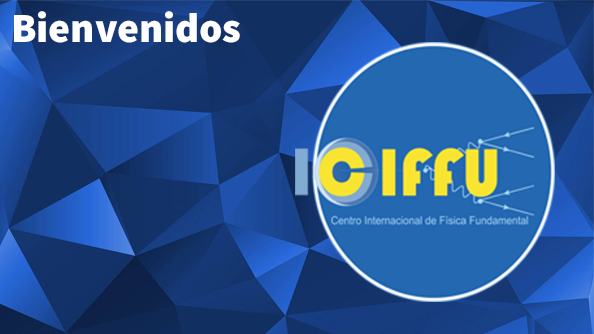
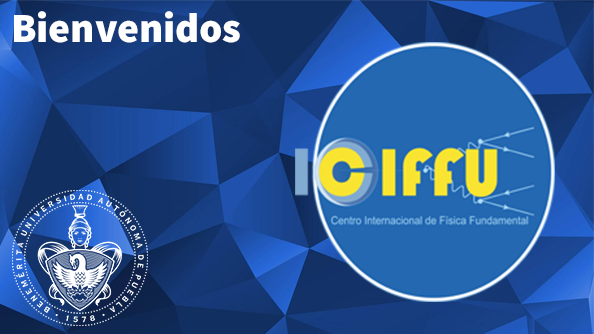
Revison CMS

Changed region(s): [[0.0, 0.5689, 0.2424, 0.988]]

diff --git a/css/app.css b/css/app.css
@@ -863,6 +863,14 @@ h1.titulo-presentacion, h2.titulo-presentacion, h3.titulo-presentacion, h4.titul
 
 table{width:100%;}
 td{padding:24px; background:#eee;}
+
+.mini-mapa{
+	display: block;
+	margin-left: auto;
+	margin-right: auto;
+	margin-top: 10px;
+	margin-bottom: 10px;
+}
 /*
 Azul celeste opaco: #3190c8
 Azul celeste opaco degradado: #39a7e7;

diff --git a/index.php b/index.php
@@ -37,17 +37,9 @@
 
             	<a href="#" >Programa de visitantes</a>
             </li>
-        	   <li>
-
-            	<a href="#">Talleres</a>
-            </li>
             <li>
 
-            	<a href="la-fisica-de-altas-energias-en-la-buap.php">Actividades de Investigación</a>
-            </li>
-            <li>
-
-            	<a href="#" >Comunicados</a>
+            	<a href="comunicados.php" >Comunicados</a>
             </li>
             <li >
 
@@ -66,28 +58,32 @@
                <button class="orbit-next boton-slider"><span class="show-for-sr">Noticia siguiente</span>&#9654;&#xFE0E;</button>
 
                <li class="is-active orbit-slide">
-                   <img class="orbit-image" src="assets/slider/sliderinicio.jpg" alt="fce-buap">
+                   <img class="orbit-image" src="assets/img/slider-presentacion.png" alt="fce-buap">
+
+               </li>
+               <li class="is-active orbit-slide">
+                   <img class="orbit-image" src="assets/slider/logoCMS.jpg" alt="fce-buap">
 
                </li>
                <li class="orbit-slide">
-                   <img class="orbit-image" src="assets/slider/Logo QuantumUniverse.jpg" alt="alumnos fce">
+                   <img class="orbit-image" src="assets/img/fotosEventoQuantum/1.jpg" alt="alumnos fce">
 
                </li>
                <li class="orbit-slide">
-                   <img class="orbit-image" src="assets/img/fb3.jpg" alt="alumnos fce">
-                   <figcaption class="orbit-caption">Próximamente The Quantum Universe en la BUAP</figcaption>
+                   <img class="orbit-image" src="assets/img/fotosEventoQuantum/2.jpg" alt="alumnos fce">
+
                </li>
                <li class="orbit-slide">
-                   <img class="orbit-image" src="assets/slider/sliderQuantum.jpg" alto="Quantum Universe BUAP">
+                   <img class="orbit-image" src="assets/img/fotosEventoQuantum/3.jpg" alto="Quantum Universe BUAP">
 
                </li>
 
                <li class="orbit-slide">
-                   <img class="orbit-image" src="assets/img/sl3.jpg" alt="alumnos fce">
-                   <figcaption class="orbit-caption">Conferencias</figcaption>
+                   <img class="orbit-image" src="assets/img/fotosEventoQuantum/4.jpg" alt="alumnos fce">
+                   <figcaption class="orbit-caption">Próximamente "CMS Day"</figcaption>
                </li>
                <li class="orbit-slide">
-                   <img class="orbit-image" src="assets/img/sl4.jpg" alt="alumnos fce">
+                   <img class="orbit-image" src="assets/img/fotosEventoQuantum/5.jpg" alt="alumnos fce">
 
                </li>
            </ul>
@@ -98,6 +94,7 @@
                <button data-slide="3"><span class="show-for-sr">Cuarto slide</span></button>
                <button data-slide="4"><span class="show-for-sr">Quinto slide</span></button>
                <button data-slide="5"><span class="show-for-sr">Sexto slide</span></button>
+               <button data-slide="6"><span class="show-for-sr">Septimo slide</span></button>
            </nav>
        </div>
     </div>
@@ -113,12 +110,12 @@
         <button class="orbit-next  boton-slider" aria-label="next"><span class="show-for-sr">Slide previo</span>&#9654;</button>
         <li class="is-active orbit-slide">
           <div class="docs-example-orbit-slide text-justify" >
-            <p>El CIFFU es un centro de investigación semi-virtual, especializado en Física Fundamental, con un enfoque multidisciplinario, donde confluyen esfuerzos coordinados para realizar investigación de frontera, formación de recursos humanos de alto nivel y la difusión de la ciencia, que buscará incidir en el sistema educativo nacional. Uno de sus objetivos es lograr un reconocimiento global y proyectar a la BUAP como una institución líder de México y Latinoamérica en el campo de la Física Fundamental, para beneficio de la comunidad universitaria y de la misma sociedad.</p>
+            <p>El CIFFU es un centro de investigación semi-virtual adscrito a la BUAP especializado en Física Fundamental, para fomentar la investigación de frontera y formación de recursos humanos de alto nivel, con un enfoque multidisciplinario y una alta componente de colaboraciones nacionales e internacionales. Una de sus metas es proyectar a la BUAP como una institución líder de México y Latinoamérica en el campo de la Física Fundamental. El CIFFU se propone también incidir en la sociedad, mediante la difusión científica y el analisis de los planes de enseñanza de las ciencias en el sistema educativo nacional.</p>
           </div>
         </li>
         <li class="orbit-slide">
-          <div class="docs-example-orbit-slide" >
-            <p>Las áreas de investigación que se desarrollan en el CIFFU incluyen la física de partículas elementales, tanto la búsqueda de señales en colisionadores como su conexión con la Astrofísica, Cosmología y los aspectos básicos de la Teoría Cuántica de Campos. En particular se propone estudiar temas de la física del sector de Higgs, el quark top, la búsqueda de materia oscura, rayos cósmicos y fundamentos de la Teoría Cuántica.</p>
+          <div class="docs-example-orbit-slide text-justify" >
+            <p>Las áreas de investigación que se desarrollan en el CIFFU incluyen la física de partículas elementales, tanto la búsqueda de señales en colisionadores como su conexión con la Astrofísica, Cosmología y Teoría Cuántica de Campos. En particular se propone estudiar temas de la física del sector de Higgs, el quark top, la materia oscura, rayos cósmicos, fundamentos y aplicaciones de la Teoría Cuántica. </p>
           </div>
         </li>
 
@@ -131,31 +128,51 @@
       <div class="widget" >
         <h4 class="titulo-widget">Artículos recientes del CIFFU</h4>
 
-<script src="https://ajax.googleapis.com/ajax/libs/jquery/2.1.1/jquery.min.js"></script>
-
-<div class="table-responsive">
-<ul class="lista-comunicados">
-  <li>
-    <a href="la-fisica-de-altas-energias-en-la-buap.php">La Física de Altas Energías en la BUAP</a>
-
-  </li>
-
-</ul>
-</div>
-
-<script>
-var $el = $(".table-responsive");
-function anim() {
-  var st = $el.scrollTop();
-  var sb = $el.prop("scrollHeight")-$el.innerHeight();
-  $el.animate({scrollTop: st<sb/2 ? sb : 0}, 12000, anim);
-}
-function stop(){
-  $el.stop();
-}
-anim();
-$el.hover(stop, anim);
-</script>
+        <!-- start sw-rss-feed code -->
+        <script type="text/javascript">
+        <!--
+        rssfeed_url = new Array();
+        rssfeed_url[0]="https://inspirehep.net/rss?ln=es&p=FIND+CIFFU";
+        rssfeed_frame_width="370";
+        rssfeed_frame_height="260";
+        rssfeed_scroll="on";
+        rssfeed_scroll_step="6";
+        rssfeed_scroll_bar="off";
+        rssfeed_target="_blank";
+        rssfeed_font_size="12";
+        rssfeed_font_face="";
+        rssfeed_border="on";
+        rssfeed_css_url="";
+        rssfeed_title="on";
+        rssfeed_title_name="";
+        rssfeed_title_bgcolor="#3366ff";
+        rssfeed_title_color="#fff";
+        rssfeed_title_bgimage="";
+        rssfeed_footer="off";
+        rssfeed_footer_name="rss feed";
+        rssfeed_footer_bgcolor="#fff";
+        rssfeed_footer_color="#333";
+        rssfeed_footer_bgimage="";
+        rssfeed_item_title_length="50";
+        rssfeed_item_title_color="#666";
+        rssfeed_item_bgcolor="#fff";
+        rssfeed_item_bgimage="";
+        rssfeed_item_border_bottom="on";
+        rssfeed_item_source_icon="off";
+        rssfeed_item_date="off";
+        rssfeed_item_description="on";
+        rssfeed_item_description_length="120";
+        rssfeed_item_description_color="#666";
+        rssfeed_item_description_link_color="#333";
+        rssfeed_item_description_tag="off";
+        rssfeed_no_items="0";
+        rssfeed_cache = "e6d73d0fb897dba964112138b9bda1b2";
+        //-->
+        </script>
+        <script type="text/javascript" src="//feed.surfing-waves.com/js/rss-feed.js"></script>
+        <!-- The link below helps keep this service FREE, and helps other people find the SW widget. Please be cool and keep it! Thanks. -->
+        <div style="text-align:right; width:370px;"><a href="http://www.surfing-waves.com/feed.htm" target="_blank" style="color:#ccc;font-size:10px">feedwidget @</a> <a href="http://www.surfing-waves.com" target="_blank" style="color:#ccc;font-size:10px">Surfing Waves</a></div>
+        <!-- end sw-rss-feed code -->
 
       </div>
 
@@ -174,17 +191,6 @@ $el.hover(stop, anim);
     	<div class="widget" data-equalizer-watch>
     	<h4 class="titulo-widget">Próximos eventos</h4>
       <ul class="lista-eventos">
-        <li class="evento">
-          <div class="cuerpo-fecha">
-            <div class="fecha">
-              <span class="dia">29</span>
-              <span class="mes">Junio</span>
-            </div>
-          </div>
-          <div class="cuerpo-evento">
-            <h4><a href="eventos.php">The Quantum Universe</a></h4>
-          </div>
-        </li>
 
         <li class="evento">
           <div class="cuerpo-fecha">

diff --git a/la-fisica-de-altas-energias-en-la-buap.php b/la-fisica-de-altas-energias-en-la-buap.php
@@ -10,12 +10,12 @@
 <div class="row">
   <div class="small-12 tarjeta text-justify">
   <p>
-  La investigación en Física de Partículas Elementales y Relatividad General, que se inició en la BUAP a finales de los años 70, ha sido sin lugar a dudas una de las áreas más productivas.
-Dentro de esta línea se ha mantenido un alto ritmo de publicación de artículos en revistas del más alto nivel. Se incluyen también el desarrollo del área experimental, a la fecha la BUAP cuenta con uno de los cuatro grupos más activos que hay en el país y mantiene una colaboración con experimentos de carácter nacional e internacional.
-
+La investigación en Física de Partículas Elementales y Relatividad General, que se inició en la BUAP a finales de los años 70, ha sido sin lugar a dudas una de las áreas más productivas en la institución. Dentro de esta línea se ha mantenido un alto ritmo de publicación de artículos en revistas del más alto nivel. Se incluyen también el desarrollo del área experimental, a la fecha la BUAP cuenta con uno de los cuatro grupos más activos que hay en el país, se mantiene una colaboración con experimentos de carácter nacional e internacional.
 <br>
  <br>
-El grado de madurez de este grupo lo demuestra el alto número de miembros del SNI, mientras que la calidad e impacto de la investigación se ilustra por el número de artículos con más de 50 o 100 citas. Asimismo, el grupo se ha involucrado en actividades de liderazgo en el país, como lo son la organización de eventos académicos, participación en comisiones para la directriz de la ciencia en México, por ejemplo con la participación en comisiones de premios de la Academia Mexicana de Ciencias, la Comisión Evaluadora del SNI y de la Comisión de Proyectos del CONACyT.
+
+ El grado de madurez de este grupo lo demuestra el alto número de miembros del SNI, mientras que la calidad de la investigación se ilustra por el número de artículos de alto impacto. Asimismo, el grupo se ha involucrado en actividades de liderazgo en el país, como lo son la organización de eventos académicos, participación en comisiones para la directriz de la ciencia en México, por ejemplo con la participación en comisiones de premios de la Academia Mexicana de Ciencias, la Comisión Evaluadora del SNI y de comisiones de Proyectos del CONACyT.
+
  <br>
  <img src="assets/img/fb1.jpg" class="img-articulo">
  <br>
@@ -34,17 +34,14 @@ También, a lo largo de estos años se han obtenido importantes apoyos y recurso
   </div>
   <div class="small-12 medium-8 column">
     <p>
-    Recientemente, uno de los promotores de este centro (Dr. Diaz-Cruz) fue invitado a participar en el seminarios CIDE-Yale, en el cual se tuvo la oportunidad de convivir con expertos de los más diversos campos, así como líderes políticos y empresariales, para la discusión de los problemas nacionales, entre los que se incluyeron temas de educación, salud pública, legislación y justicia, migración, así como tendencias y estrategias para la estimación de los recursos mundiales de energía y alimentos. Uno de los posibles frutos de tal experiencia sería el trabajo multi-disciplinario que se plantea realizar en este centro propuesto.
-    En suma, podemos decir que el trabajo que se ha realizado en este campo de la Física de Altas Energías, es una tradición en nuestra universidad y representa toda una fortaleza dentro de la misma, la cual cuenta con el perfil y el potencial para alcanzar niveles superiores de excelencia, que podrían llevar a convertirse en un grupo líder en Latinoamérica y alcanzar un mayor reconocimiento internacional.
-  </p>
+    Sin lugar a dudas, el éxito alcanzando en esta disciplina ha sido posible gracias al apoyo recibido por las autoridades de la BUAP y del Estado y convencerlos de la riqueza que representa contar con un grupo de tale características.
+
+    </p>
   </div>
 </div>
 
 
-<p>
-Sin lugar a dudas, el éxito alcanzando en esta disciplina ha sido posible gracias al apoyo recibido por las autoridades de la BUAP y del Estado y convencerlos de la riqueza que representa contar con un grupo de tale características.
 
-</p>
 </div>
 </div>
 

diff --git a/presentacion.php b/presentacion.php
@@ -10,7 +10,11 @@
       </p>
 
       <p>
-        El proyecto asume la coordinación de sinergias entre los profesores investigadores de la BUAP en temas de Física Fundamental, incluyendo las áreas  de partículas y Campos, Cosmología, Astrofísica y aspectos básicos de la teoría Cuántica de la BUAP, interesados todos en desarrollar investigación básica  orientada a resolver problemas de frontera.  Así mismo, se propone realizar labores de consultoría dentro y fuera de la BUAP, para el estudio de problemas nacionales, mediante de los desarrollos científicos y tecnológicos de estas áreas del conocimiento. En particular, se propone  continuar con el estudio  de los temas de Física de Partículas Elementales con mayor tradición (bosón de Higgs, quark top,  materia oscura y rayos cósmicos), incluyendo la formulación de nuevos modelos, así como el estudio de las implicaciones experimentales en colisionadores y el Cosmos. El centro se propone participar en labores de divulgación de la ciencia y estudiar la inserción del nuevo conocimiento en los programas educativos del país.
+
+        El proyecto se propone  coordinar la colaboración de los profesores-investigadores de la BUAP que trabajan en temas de Física Fundamental, incluidas  las áreas de Partículas y Campos, Cosmología, Astrofísica y aspectos básicos de la Teoría Cuántica de la BUAP, interesados todos en desarrollar investigación básica orientada a resolver problemas de frontera.
+
+        Asimismo, se propone realizar labores de consultoría dentro y fuera de la BUAP, para el estudio de problemas nacionales, buscando aplicar los desarrollos científicos y tecnológicos asociados con estas áreas del conocimiento. En particular, se propone continuar con el estudio de los temas de Física de Partículas Elementales con mayor tradición en la BUAP (bosón de Higgs, quark top, materia oscura y rayos cósmicos), incluyendo la formulación de nuevos modelos de partículas, así como el estudio de sus implicaciones experimentales en colisionadores y el Cosmos. El centro se propone participar en labores de divulgación de la ciencia y estudiar la inserción del nuevo conocimiento en los programas educativos del país.
+
       </p>
 
       <p>
@@ -78,6 +82,7 @@ como la organización de eventos académicos (talleres, escuelas y simposios), a
           <ul class="menu vertical tarjeta"  data-magellan data-bar-offset="90">
             <li><a href="#queeselciffu" class="hvr-underline-from-center">Resumen</a></li>
             <li><a href="#mision" class="hvr-underline-from-center">Presentación</a></li>
+            <li><a href="la-fisica-de-altas-energias-en-la-buap.php" class="hvr-underline-from-center">La física de altas energías en la BUAP</a></li>
             <li><a href="#vision" class="hvr-underline-from-center">Visión</a></li>
             <li><a href="#antecedentes" class="hvr-underline-from-center">Antecedentes</a></li>
 

diff --git a/comunicados.php b/comunicados.php
@@ -1,0 +1,43 @@
+<?php require("header.php") ?>
+
+<div class="row ">
+  <div class="small-12 medium-12 large-12 columns tarjeta">
+      <h3 class="titulo-widget">
+          ¿Cómo llegar a la ciudad de Puebla?
+      </h3>
+
+        <h5 class="titulo-widget">Desde el Aeropuerto Internacional de la CDMEX</h5>
+      <p>La manera más conveniente de llegar a la C. de Puebla es vía el Aeropuerto de la CDMEX, desde donde existe un servicio de autobús directo a Puebla, que sale desde ambas terminales 1 y 2, con llegada a la terminal 4 poniente, desde donde se recomiendo tomar un taxi interno a los hoteles.</p>
+
+
+        <h5 class="titulo-widget">Vía Autobús:</h5>
+          <p>
+            Vía Autobús desde la CDMEX (o ciudades vecinas) a la terminal CAPU, donde .se recomiendo tomar un taxi interno a los hoteles.
+          </p>
+
+          <h5 class="titulo-widget">En auto propio:</h5>
+          <p>
+            Desde el Centro Histórico hay que tomar la Calzada Ignacio Zaragoza que luego se convierte en la Autopista 150 México-Puebla. Si arrancas desde el sur de DF, puede tomar el Periférico hasta encontrar la Autopista.
+          </p>
+
+      <p style="font-weight: bold">
+        *El Hotel Holliday Inn ofrece una tarifa preferencial para eventos de la BUAP y además ofrece el servicio de traslado a la BUAP, campus CU.
+      </p>
+
+      <hr>
+      <h3 class="titulo-widget">
+        ¿Cómo llegar a la BUAP?
+      </h3>
+
+      <h5 class="titulo-widget">Desde la CAPU:  </h5>
+
+      <p>En transporte público, saliendo del edificio puede tomar las rutas: Boulevard C.U. o Rápidos San Antonio, cualquiera de ellas lo llevará directamente a C.U de la BUAP. También puede tomar un taxi interno pidiendo que lo lleven a Ciudad Universitaria. </p>
+<div>
+<iframe class="mini-mapa" src="https://www.google.com/maps/embed?pb=!1m18!1m12!1m3!1d3772.389889928147!2d-98.20329738780597!3d19.00253369086597!2m3!1f0!2f0!3f0!3m2!1i1024!2i768!4f13.1!3m3!1m2!1s0x0%3A0x9471a739a78fbbc8!2sFacultad+de+Ciencias+Fisico+Matem%C3%A1ticas+-+BUAP!5e0!3m2!1ses-419!2smx!4v1499355015414" width="600" height="450" frameborder="0" style="border:0" allowfullscreen></iframe>
+</div>
+
+
+  </div>
+</div>
+
+<?php require("footer.php") ?>

diff --git a/eventos.php b/eventos.php
@@ -8,6 +8,7 @@
   </div>
 </div>
 
+<!--
 <div class="row tarjeta bloque-evento">
   <div class="small-12 medium-8 large-8 column text-justify">
     <h3>The Quantum Universe </h3>
@@ -103,7 +104,7 @@ Para cumplir con este objetivo se propone convocar a expertos en dichos temas de
 
 
 </div>
-
+-->
 
 <div class="row tarjeta bloque-evento">
   <div class="small-12 medium-8 large-8 column  text-justify ">
@@ -126,7 +127,7 @@ This meeting will  include special sessions where Mexican theory groups will int
 
   <div class="small-12 medium-2 large-2 column bloque-fecha">
     <h3>Fecha:</h3>
-    14 de Agosto
+    28 de Agosto
 
   </div>
 
@@ -185,6 +186,33 @@ Para cumplir con este objetivo se propone convocar a expertos en dichos temas de
 
 <div class="row tarjeta">
   <ul class="accordion" data-accordion>
+    <li class="accordion-item" data-accordion-item>
+      <a href="#" class="accordion-title">Eventos 2017</a>
+
+      <div class="accordion-content" data-tab-content>
+          <table>
+            <thead>
+                <tr>
+                  <th>Evento</th>
+                  <th>Lugar</th>
+                  <th>Fecha</th>
+                </tr>
+            </thead>
+            <tbody>
+              <tr>
+                <td>The Quantum Universe</td>
+                <td>Auditorio "Joaquín Ancona Albertos" 1FM3, FCFM</td>
+                <td>29 y 30 de Junio</td>
+              </tr>
+
+
+            </tbody>
+          </table>
+
+      </div>
+    </li>
+
+
     <li class="accordion-item is-active" data-accordion-item>
       <a href="#" class="accordion-title">Eventos 2016</a>
 
